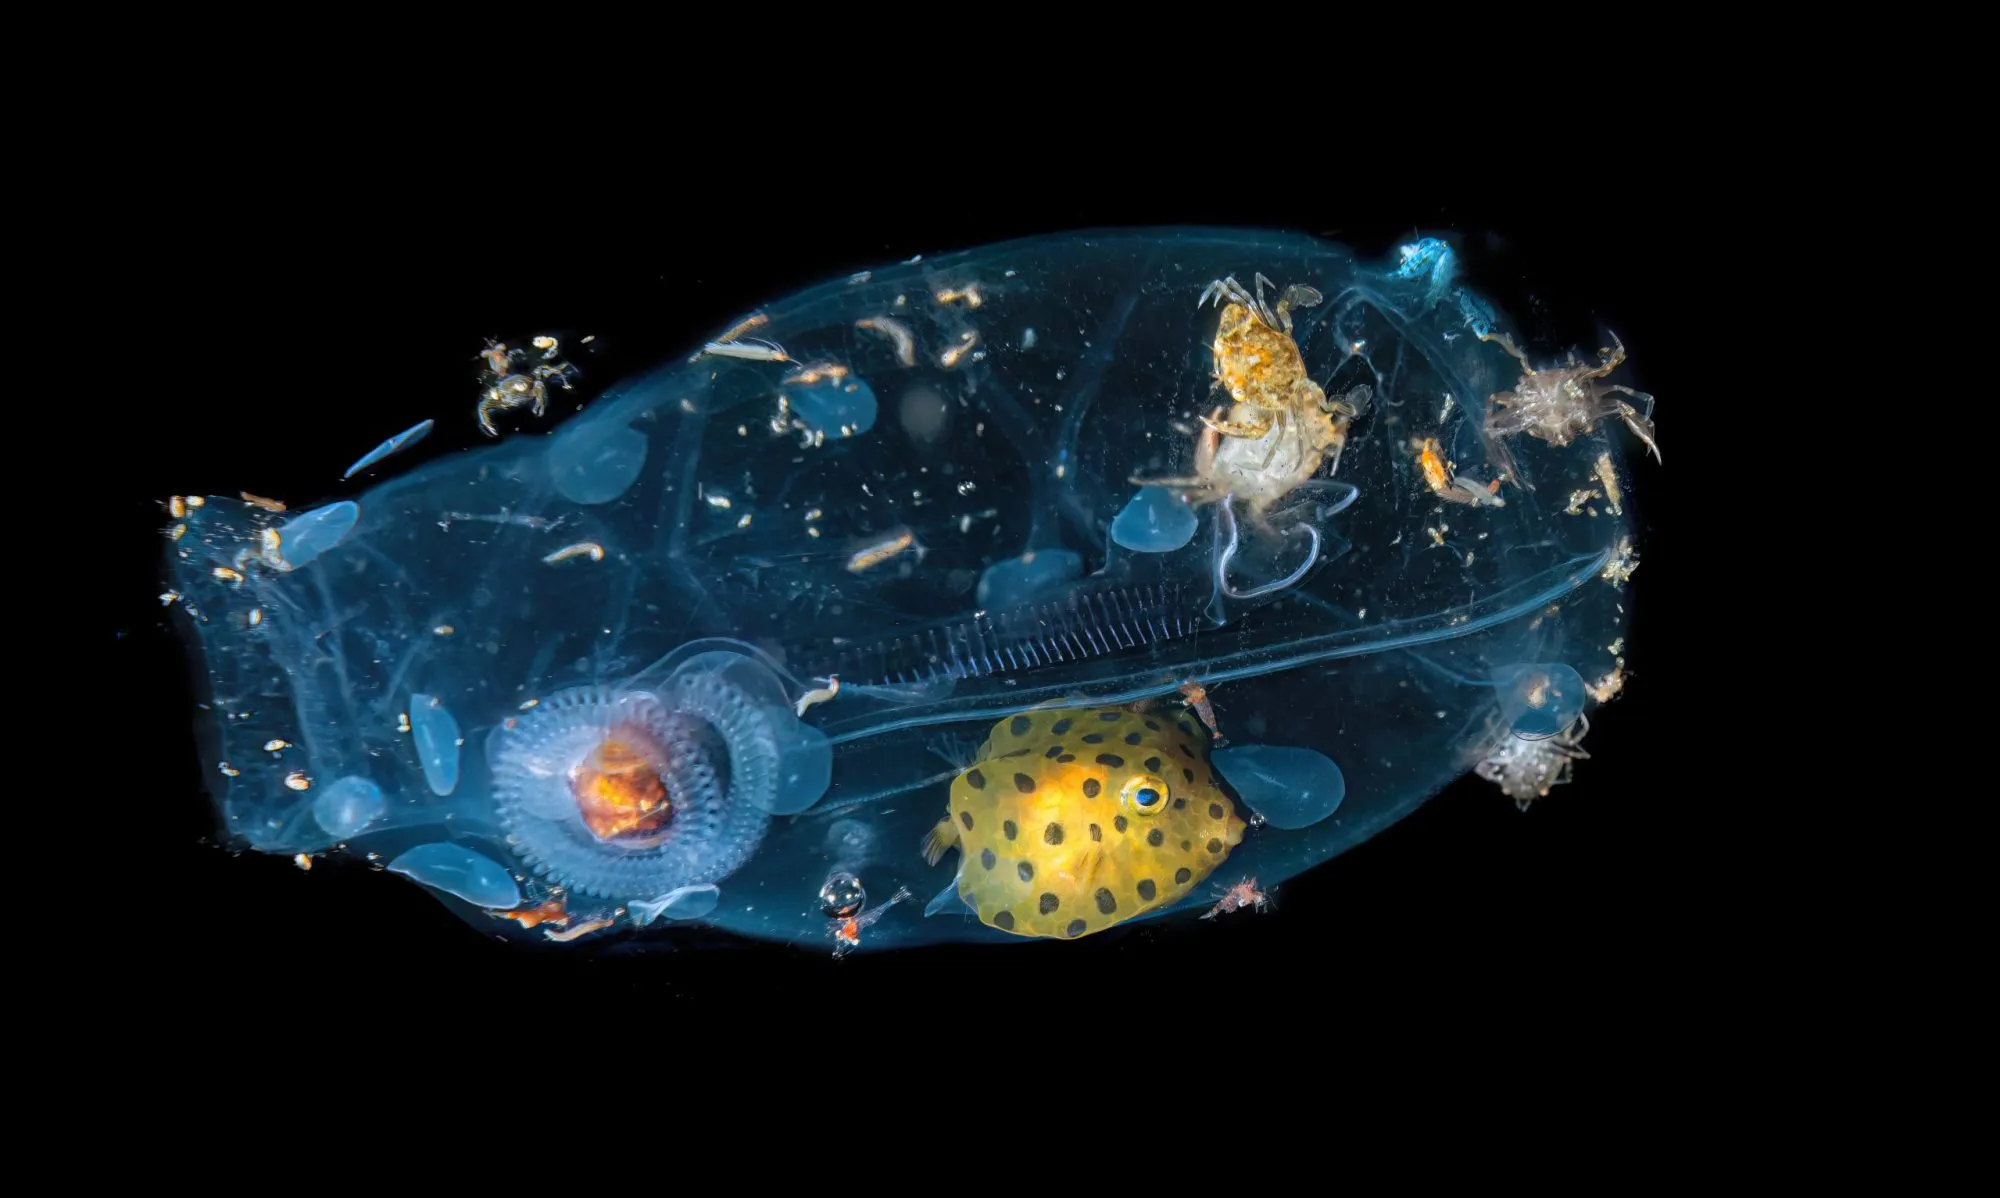
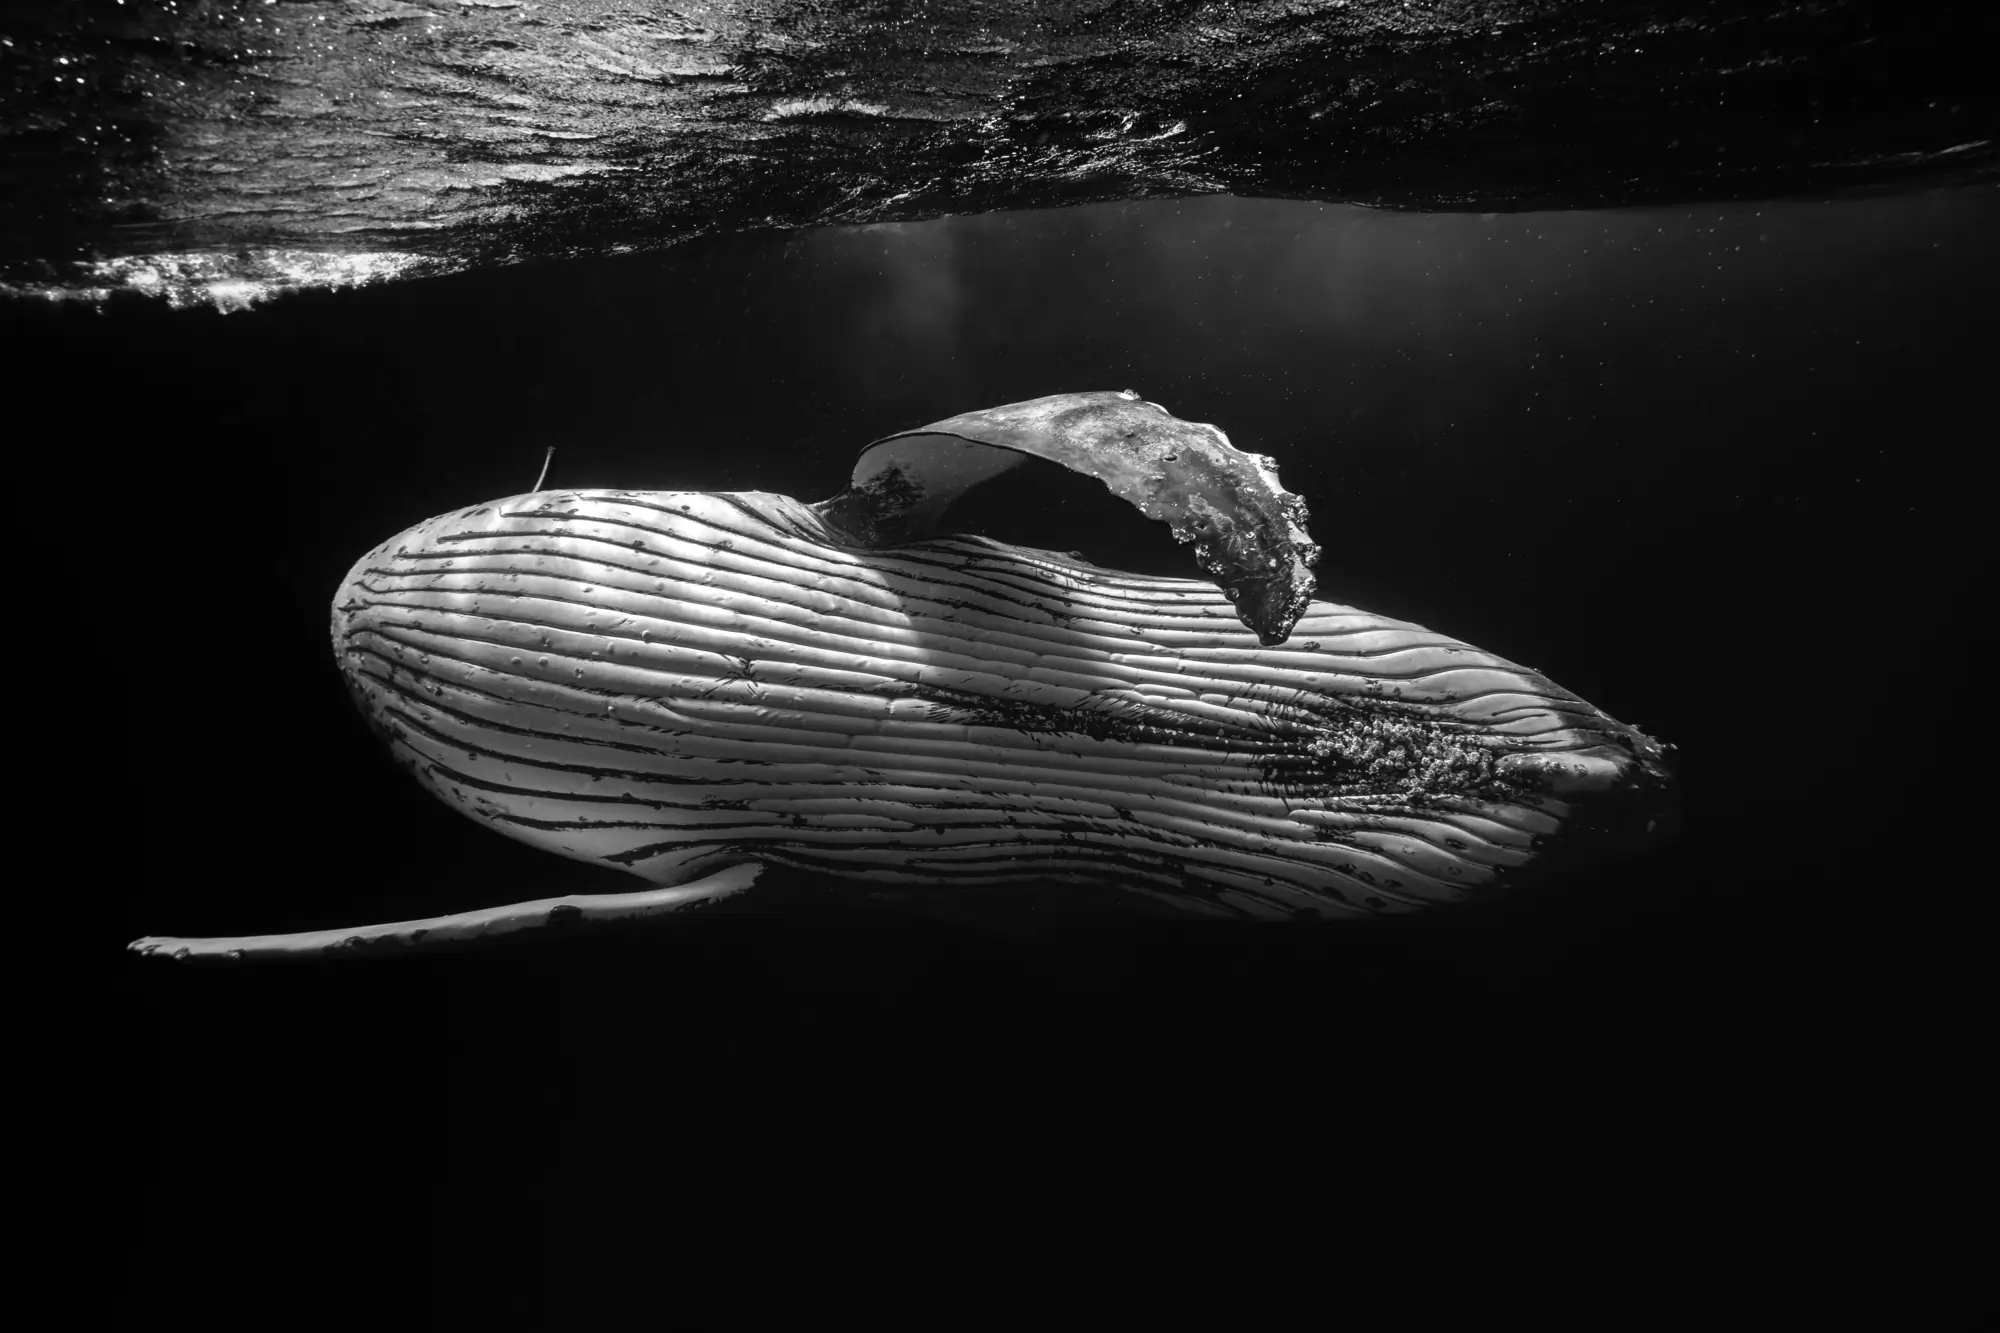
Homepage tidy up

diff --git a/src/components/Navbar/NavbarContent.tsx b/src/components/Navbar/NavbarContent.tsx
@@ -3,64 +3,37 @@ import { useI18n } from '@/i18n/react';
 export function NavbarContent() {
   const { t, lang } = useI18n();
 
-  const cta = {
-    show: false,
-    text: t('navbar.cta'),
-    link: '/',
-  };
   return (
-    <div className="mx-auto max-w-2xl pb-32 pt-6 sm:pt-12 sm:pb-48 lg:pb-38">
-      <div className="text-center mb-6">
-        <p className="font-light text-gray-400 text-[10px] uppercase tracking-widest mb-2">
-          {t('navbar.patronage')}
-        </p>
-        <img
-          src="/images/patrocini/regione-abruzzo-logo.svg"
-          alt="Regione Abruzzo"
-          loading="lazy"
-          className="w-28 h-auto opacity-80 mx-auto"
-        />
-      </div>
-      {cta.show && (
-        <div className="hidden sm:mb-8 sm:flex sm:justify-center">
-          <a
-            href={cta.link}
-            className="relative rounded-full px-3 py-1 text-indigo-400 text-sm/6 ring-1 ring-white/10 hover:ring-white/20"
-          >
-            {`${cta.text} `}
-            <span aria-hidden="true">&rarr;</span>
-          </a>
-        </div>
-      )}
-      <div className="text-center">
+    <div className="flex min-h-screen flex-col items-center justify-center">
+      <div className="text-center drop-shadow-[0_2px_4px_rgba(0,0,0,0.8)]">
         <div className="flex sm:flex-row flex-col items-center justify-center">
-          <img src="/images/logo.svg" alt="Logo" className="h-64" />
-          <h1 className="sm:text-left flex flex-col gap-1 tracking-tight text-balance text-white">
-            <span className="sm:text-5xl text-4xl font-semibold">
-              See In The Sea
-            </span>
-            <span className="sm:text-4xl text-2xl">
-              International Underwater Photocontest
-            </span>
-          </h1>
-        </div>
-
-        <p className="sm:mt-2 mt-4 text-lg font-light text-pretty text-gray-300 sm:text-xl/8">
-          {t('site.description')}
-        </p>
-        <div className="mt-10 flex items-center justify-center gap-x-6">
-          <a
-            href={lang === 'it' ? '/it/user/submissions' : '/user/submissions'}
-            className="rounded-md bg-indigo-500 px-3.5 py-2.5 text-sm font-semibold text-white shadow-xs hover:bg-indigo-400 focus-visible:outline-2 focus-visible:outline-offset-2 focus-visible:outline-indigo-500"
-          >
-            {t('navbar.register')}
-          </a>
-          <a
-            href={lang === 'it' ? '/it/rules' : '/rules'}
-            className="text-sm/6 font-semibold text-white"
-          >
-            {t('navbar.discover')} <span aria-hidden="true">→</span>
-          </a>
+          <img src="/images/logo.svg" alt="Logo" className="h-40 sm:h-64" />
+          <div className="sm:text-left flex flex-col gap-1">
+            <h1 className="flex flex-col gap-1 tracking-tight text-balance text-white">
+              <span className="sm:text-5xl text-4xl font-semibold">
+                See In The Sea
+              </span>
+              <span className="sm:text-4xl text-2xl">
+                International Underwater Photocontest
+              </span>
+            </h1>
+            <div className="mt-4 flex flex-col sm:flex-row items-center sm:items-start gap-3">
+              <a
+                href={
+                  lang === 'it' ? '/it/contest/uw-2025' : '/contest/uw-2025'
+                }
+                className="rounded-md bg-[#077f9d] px-3.5 py-2.5 text-sm font-semibold text-white text-center shadow-xs hover:bg-[#077f9d]/80 w-48"
+              >
+                {t('navbar.winners')}
+              </a>
+              <a
+                href={lang === 'it' ? '/it/user/submissions' : '/user/submissions'}
+                className="rounded-md border border-[#077f9d] px-3.5 py-2.5 text-sm font-semibold text-white text-center hover:bg-[#077f9d]/10 w-48"
+              >
+                {t('navbar.discover')}
+              </a>
+            </div>
+          </div>
         </div>
       </div>
     </div>

diff --git a/src/components/Navbar/Navbar.tsx b/src/components/Navbar/Navbar.tsx
@@ -1,12 +1,9 @@
 'use client';
 
 import { I18nProvider } from '@/i18n/react';
-import { BottomBlurryOverlay } from './BottomBlurryOverlay';
 import { ImageBackground } from './ImageBackground';
 import { NavbarContent } from './NavbarContent';
 import { NavbarHeaderWithClerk } from './NavbarHeaderWithClerk';
-import { PlainOverlay } from './PlainOverlay';
-import { TopBlurryOverlay } from './TopBlurryOverlay';
 
 export function Navbar({
   lang = 'en',
@@ -23,14 +20,11 @@ export function Navbar({
     <I18nProvider lang={lang}>
       <div className="bg-gray-900 relative">
         <NavbarHeaderWithClerk clerkPublicKey={clerkPublicKey} lang={lang} />
-        <div className="relative isolate overflow-hidden pt-14">
+        <div className="relative isolate overflow-hidden">
           <ImageBackground />
-          <TopBlurryOverlay />
-          <PlainOverlay />
           <div className="mx-auto max-w-7xl px-6 lg:px-8">
             <NavbarContent />
           </div>
-          <BottomBlurryOverlay />
         </div>
       </div>
     </I18nProvider>

diff --git a/src/components/Navbar/NavbarHeader.tsx b/src/components/Navbar/NavbarHeader.tsx
@@ -122,7 +122,9 @@ export function NavbarHeader({ standalone = false }: { standalone?: boolean }) {
   }
 
   return (
-    <header className={`${!standalone ? 'absolute' : ''} inset-x-0 top-0 z-50`}>
+    <header
+      className={`${!standalone ? 'absolute' : ''} inset-x-0 top-0 z-50 bg-gradient-to-b from-black/60 to-transparent`}
+    >
       <nav
         aria-label="Global"
         className="mx-auto max-w-screen-2xl flex items-center justify-between p-4 lg:px-6 xl:px-8"
@@ -133,7 +135,7 @@ export function NavbarHeader({ standalone = false }: { standalone?: boolean }) {
             <img
               alt=""
               src={logoPath}
-              className="h-14 lg:h-16 xl:h-20 2xl:h-24 w-auto"
+              className="h-10 lg:h-12 xl:h-14 2xl:h-16 w-auto"
             />
           </a>
         </div>

diff --git a/src/i18n/translations.ts b/src/i18n/translations.ts
@@ -35,7 +35,7 @@ export const translations = {
 
     // Navbar
     'navbar.cta': 'Registration Open!',
-    'navbar.register': 'Register Now',
+    'navbar.winners': '2025 Winners',
     'navbar.discover': 'Discover the Contest',
     'navbar.patronage': 'With the high patronage of',
 
@@ -402,7 +402,7 @@ export const translations = {
 
     // Navbar
     'navbar.cta': 'Iscrizioni Aperte!',
-    'navbar.register': 'Iscriviti Ora',
+    'navbar.winners': 'Vincitori 2025',
     'navbar.discover': 'Scopri il Concorso',
     'navbar.patronage': 'Con il patrocinio di',
 

diff --git a/src/components/Navbar/ImageBackground.tsx b/src/components/Navbar/ImageBackground.tsx
@@ -2,7 +2,7 @@ export function ImageBackground() {
   return (
     <div>
       <div className="absolute bottom-4 right-10 text-slate-500 font-bold italic">
-        Max Giorgetta - Vite Protette
+        Marco Domenicucci
       </div>
       <img
         alt="Underwater wallpaper"
